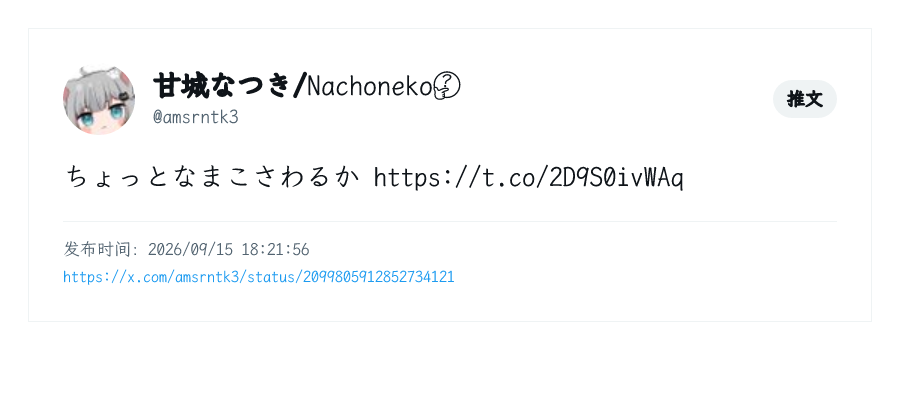
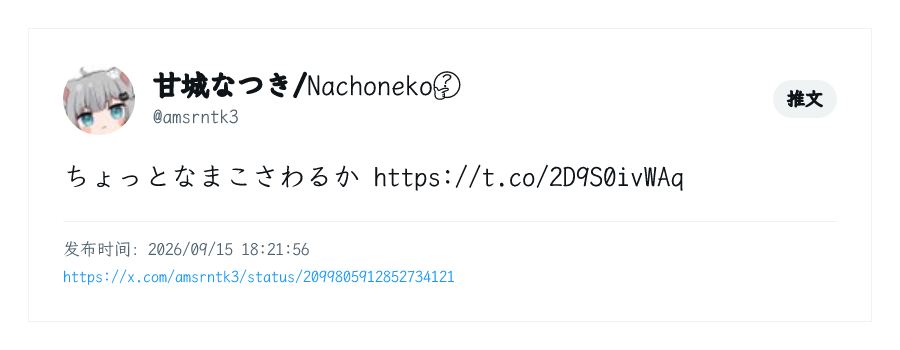
feat: prepare 0.4.0-beta.7 with help alias and refined cards
Add xhelp alias, lighten card typography, and reorganize command documentation with previews. Bump version to 0.4.0-beta.7+20260916 and update changelog.

diff --git a/src/render/takumi.ts b/src/render/takumi.ts
@@ -232,11 +232,11 @@ function recentActivityCard(
         container({
           style: { display: "flex", flexDirection: "column", gap: 2, flex: 1 },
           children: [
-            text(activity.fullname, { fontSize: 25, fontWeight: 600, color: palette.text }),
+            text(activity.fullname, { fontSize: 25, fontWeight: 400, color: palette.text }),
             text(`@${activity.username} · ${formatTime(activity.createdAt)}`, { fontSize: 17, color: palette.muted }),
           ],
         }),
-        text(actionLabel(activity.kind), { fontSize: 17, fontWeight: 600, color: palette.accent }),
+        text(actionLabel(activity.kind), { fontSize: 17, fontWeight: 400, color: palette.accent }),
       ],
     }),
     text(activity.text.trim() || "（无文字内容）", {
@@ -585,7 +585,7 @@ export function createTakumiRenderer(
           backgroundColor: palette.background,
         },
         children: [
-          text("X / Twitter 频道订阅", { fontSize: 32, fontWeight: 650, color: palette.text }),
+          text("X / Twitter 频道订阅", { fontSize: 32, fontWeight: 500, color: palette.text }),
           text(`共 ${watchers.length} 条订阅`, { fontSize: 17, color: palette.muted }),
           watcherTable(watchers, avatars),
         ],
@@ -619,7 +619,7 @@ export function createTakumiRenderer(
             container({
               style: { display: "flex", alignItems: "center" },
               children: [
-                text(`${user.fullname} (@${user.username}) 最近动态`, { flex: 1, fontSize: 31, fontWeight: 650, color: palette.text }),
+                text(`${user.fullname} (@${user.username}) 最近动态`, { flex: 1, fontSize: 31, fontWeight: 500, color: palette.text }),
                 text(`第 ${pageIndex + 1}/${pageCount} 页`, { fontSize: 17, color: palette.muted }),
               ],
             }),

diff --git a/src/help.ts b/src/help.ts
@@ -74,7 +74,7 @@ export function helpCommands(defaults: HelpDefaults = {}): ReadonlyArray<HelpCom
       examples: ["xre", "xre OpenAI -c 3"],
     },
     {
-      name: "x-watcher.help", emoji: "❓", syntax: "x-watcher.help", aliases: ["xhe"],
+      name: "x-watcher.help", emoji: "❓", syntax: "x-watcher.help", aliases: ["xhe", "xhelp"],
       description: "查看全部指令和用法说明", options: [],
       notes: ["总览帮助遵循当前输出模式；各指令 --help 使用 Koishi 原生文字帮助。"],
       examples: ["xhe", "xla --help"],

diff --git a/src/commands.ts b/src/commands.ts
@@ -663,6 +663,7 @@ function registerHelpCommand(
   ctx
     .command("x-watcher.help", helpDescription("x-watcher.help"))
     .alias("xhe")
+    .alias("xhelp")
     .action(async ({ session }) => {
       if (session === undefined) return;
       const output = messageOutput(dependencies);

diff --git a/readme.md b/readme.md
@@ -84,46 +84,44 @@ Rettiwt Cookie API Key 获取方法：
 
 ## 🧰 命令
 
-```text
-xwatch [-m] [--quote] [--retweet] <username> [regexp]
+| 指令 | 别名 | 功能 | 选项与默认值 | 示例 |
+| --- | --- | --- | --- | --- |
+| 📡 `x-watcher.watch <username> [regexp]` | `xwatch`、`xwa` | 订阅或完整更新当前会话的用户动态；可用正则过滤正文 | `-m` 包含媒体；`--quote` 包含引用推文；`--retweet` 包含转推，三项默认均关闭 | `xwa -m --quote --retweet OpenAI`；`xwatch OpenAI GPT\|model` |
+| 🔕 `x-watcher.unwatch <username>` | `xun`、`xunwatch` | 取消当前会话的用户订阅 | 默认软取消、保留记录；`--hard` 永久删除，需回复 `y` 确认 | `xun OpenAI`；`xun --hard OpenAI` |
+| 📋 `x-watcher.list` | `xlist`、`xls` | 查看当前会话订阅及规则，包含已取消记录 | 无专用选项 | `xls` |
+| 🆕 `x-watcher.latest [username]` | `xlatest`、`xla` | 即时查询最新一条原创推文或回复 | `-t, --type <type>`：`post`＝原创推文（默认）、`reply`＝回复；省略账号使用 `latestDefaultUsername`，初始值 `amsrntk3` | `xla`；`xla OpenAI -t reply` |
+| 🕒 `x-watcher.recent [username]` | `xrecent`、`xre` | 合并查询最近原创推文和回复，不含引用或转推 | `-c, --count <count>`：每类 `1`～`50` 条，默认取 `recentDefaultCount`（初始值 `5`）；省略账号使用 `recentDefaultUsername`（初始值 `OpenAI`）；没有 `--type` 选项 | `xre`；`xre OpenAI -c 20` |
+| ❓ `x-watcher.help` | `xhe`、`xhelp` | 查看全部指令、别名、选项、当前默认值及示例 | 各指令也可加 `--help` 查看原生文字帮助 | `xhe`；`xla --help` |
 
-xun [--hard] <username>
+> **参数格式**：`<参数>` 必填，`[参数]` 可选。用户名可带 `@`，支持 1～15 个英文字母、数字或下划线，不接受主页 URL。`regexp` 为 JavaScript 正则表达式源码，仅匹配当前动态正文；省略时不过滤。
 
-xunwatch [--hard] <username>
+### 📡 订阅与取消
 
-xlist
+> **会话范围**：订阅按频道或私聊隔离，频道中的任何成员都可以管理当前频道订阅。默认订阅原创和回复；自动推送的这两类动态可通过 `activityTypes` 配置调整，引用和转推由订阅选项控制。
 
-xhe
+> **媒体开关**：`-m` 允许卡片展示媒体，并在附件模式下另发图片；纯文本模式不发图片。GIF 独立附件使用首帧，视频通过原文链接查看。`--quote` 表示包含引用推文，与 `enableQuote` 引用指令消息不同。
 
-xlatest [username] [-t post|reply]
+> **完整覆盖**：再次执行 `xwatch` 会替换整条规则：省略正则清空过滤，省略 `-m`、`--quote`、`--retweet` 关闭对应功能。非法正则在命令阶段拒绝；数据库中意外存在的非法规则按 fail-closed 处理，不投递匹配结果。
 
-xrecent [username] [-c count]
-```
+> **起始进度**：新订阅和重新启用均从当前最新动态开始，不补发历史；更新活跃订阅保留水位。默认软取消保留记录，`xlist` 仍会显示；恢复订阅时重新设置起始位置。
 
-简写别名：`xwa` → `xwatch`、`xun` → `xunwatch`、`xls` → `xlist`、`xhe` → `x-watcher.help`、`xla` → `xlatest`、`xre` → `xrecent`。
+> **永久删除**：`xun --hard <username>` 可删除当前频道或私聊中活跃、已取消的订阅。发起人须在同一会话 30 秒内回复 `y` 确认、`n` 取消，不区分大小写并忽略首尾空白；其他回复或超时也取消。下一条回复由确认流程接收，不作为其他命令执行。
 
-- 默认订阅原创和回复。
-- `--quote` 开启引用推文。
-- `--retweet` 开启转推。
-- `-m` 附带图片和 GIF；视频继续只提供原文链接。
-- 用户名可写成 `username` 或 `@username`。
-- 正则只匹配当前动态正文。
-- 订阅按频道或私聊隔离，频道中的任何成员都可以管理当前频道订阅。
-- `xhe` 展示全部公开指令、别名、选项含义、可选值、当前配置默认值和用法示例；它和 xlist 使用所选模式的卡片、文字部分，不附加推文媒体。
-- 每个指令的 `--help` 保留 Koishi 原生文字帮助，与 `xhe` 共用用法说明；`--type` 仅用于 `xlatest`，支持 `post`、`reply`。
-- 文字帮助、查询结果和操作反馈增加 Emoji 标识；`xrecent` 在每条序号前用 📝 区分推文、💬 区分回复。Takumi 卡片不添加这些装饰，原始正文不变。
-- 再次订阅会完整覆盖规则：省略正则会清空过滤，省略 `-m`、`--quote`、`--retweet` 会关闭对应功能。新建或重新启用不补发历史，活跃订阅更新保留水位；取消订阅保留记录，`xlist` 仍会显示。
-- `xlatest` 只即时读取并发送指定用户最近的推文或回复，不创建订阅、也不推进订阅水位；用户名省略时查询 `latestDefaultUsername`，`-t` 省略时默认 `post`。
-- `xrecent` 合并获取指定用户最近的原创推文和回复，不包含引用或转推，也不改变任何订阅。用户名省略时查询 `recentDefaultUsername`。
-- `xrecent -c 10` 表示最多获取 `10` 条推文和 `10` 条回复，而不是总共 `10` 条；命令参数和配置均限制为 `1`～`50` 的整数。
-- `xrecent` 图片输出使用 Takumi WASM，每页最多展示 `10` 条动态；多页图片和文字会按“引用、分页图片、文字”的顺序放在同一条消息中。图片附件直接展示，视频和 GIF 展示封面，媒体不可用时显示占位块。
-- FFmpeg 是必需的 Koishi 服务：启用 `koishi-plugin-ffmpeg` 或 `koishi-plugin-ffmpeg-path` 任一种服务提供插件即可，后者可配置本地路径或自动下载。服务缺失时 x-watcher 等待服务就绪。
-- GIF 和视频在供应商封面不可用时，通过 FFmpeg 提取首帧；抽帧失败显示原因占位。
-- 每张 Takumi 图片和独立图片附件默认限制为 5 MiB（5 × 1024 × 1024 字节）。未超限保留原格式；超限通过 FFmpeg 转成 JPEG，先降低质量再缩小尺寸，最多尝试 8 次。卡片失败回退文字，附件失败跳过并提示；不发送超限图片。该限制不是整条多图消息的总大小上限。
+> **删除结果**：硬取消后记录不再出现在 `xlist`，重新订阅会创建新记录。等待确认期间记录已变化则需重新操作；远端 Stream 同步失败不撤销本地删除，会提示等待重试。其他频道的订阅不受影响。
 
-消息模式使用 `outputMode` 单选配置，旧 `outputFormats` 不再读取；升级后请重新选择偏好，未配置时默认 `card-text`。
+### 🔎 即时查询与帮助
 
-`takumiMediaCrop` 已由布尔开关改为三档单选，不兼容旧 `true` / `false`；已有配置需重新选择或删除该字段以使用默认 `mild`。`mild` 向图片框比例靠拢，居中裁剪且至少保留原图面积的 85%，必要时不铺满；`aggressive` 不限制裁剪量。裁剪仅影响卡片内配图（包括媒体封面），不改变独立图片附件。
+> **仅当前会话**：`xla`、`xre` 只回复触发指令的当前频道或私聊，遵守 `enableQuote`，不向所有订阅频道广播，不创建订阅或改变水位。后台订阅推送独立运行。
+
+> **查询数量**：`xrecent -c 10` 表示最多获取 10 条推文和 10 条回复，而非总共 10 条；参数和配置均限制为 `1`～`50` 的整数。`xlatest --type` 只接受 `post`、`reply`，不支持引用或转推。
+
+> **帮助形式**：`xhe` 与各指令 `--help` 共用用法说明。`xhe` 和 `xlist` 使用所选输出模式的卡片、文字部分，不附加推文媒体；`--help` 始终保留 Koishi 原生文字帮助。
+
+> **文字标识**：文字帮助、查询结果和操作反馈带 Emoji；`xrecent` 每条序号前以 📝 区分推文、💬 区分回复。Takumi 卡片不添加这些装饰，原始正文不变。
+
+### 🖼 消息模式与媒体
+
+> **模式选择**：`outputMode` 为单选配置，旧 `outputFormats` 不再读取；升级后请重新选择偏好，未配置时默认 `card-text`。
 
 | 值 | 模式 |
 | --- | --- |
@@ -133,36 +131,23 @@ xrecent [username] [-c count]
 | `card-text` | Takumi 图片卡片＋文本（默认） |
 | `card-text-media` | Takumi 图片卡片＋文本＋独立图片附件 |
 
-- 输出顺序为卡片、文字、附件；文字使用普通换行，外部内容转义后发送。xre 的附件标注所属动态序号。
-- 卡片内媒体与独立附件是两种展示方式。自动推送仍遵守订阅的 `-m` 开关；没有启用媒体时，卡片也不包含推文媒体。
-- 卡片配图默认在 666×333 px 上限内轻微居中裁剪，最多损失 15% 面积，等比缩小、不放大小图。单张居中；多图按所选列数从左到右、从上到下排列，间距 14 px，末行不足时靠左，保持原列宽。图片在各自列内水平居中、顶部对齐，每行高度随内容收缩。
-- 开启裁剪时，以有效列宽和最大高度形成统一图片框，居中裁剪而不拉伸。以上设置适用于 xla、xre、自动推送卡片内的图片及 GIF/视频封面，不改变文字、头像、整张卡片宽度或独立附件尺寸。加载或尺寸读取失败时显示最多 96 px 高的占位。
-- 独立附件由插件按代理配置下载，再以 Base64 图片发送，不把原图 URL 交给 NapCat。所有数据源均适用，关闭代理时直连；每次输出最多并发 3 个附件任务，下载超时 15 秒，最多跟随 3 次重定向，同次附件下载按 URL 复用。
-- GIF 附件转为首帧静态图片；视频不作为独立附件发送，请通过原文链接查看。单个附件失败不会阻止其他内容发送。
-- xla / xre 只回复触发指令的当前频道或私聊，遵守 `enableQuote`，不向订阅频道广播，不改变订阅及水位。后台订阅推送独立运行。
+> **输出顺序**：卡片、文字、附件按顺序发送；文字使用普通换行，外部内容转义后发送。`xre` 的附件标注所属动态序号。卡片内媒体与独立附件分别控制，自动推送仍遵守订阅的 `-m` 开关；未启用媒体时，卡片也不包含推文媒体。
 
-再次执行 `xwatch` 是完整覆盖，不是局部合并：省略正则会清空旧规则，省略 `-m`、`--quote` 或 `--retweet` 会关闭对应能力。非法正则会在命令阶段拒绝；数据库中意外存在的非法规则按 fail-closed 处理。
+> **最近动态分页**：`xrecent` 使用 Takumi WASM，每张卡片最多 10 条动态；引用、分页卡片、文字及所选附件放在同一条消息中。卡片内图片直接展示，GIF 和视频展示封面，媒体不可用时显示原因占位。
 
-新订阅和重新启用的订阅都会先把处理进度设为当前最新动态，因此不会补发订阅前的历史动态。`xun` 和 `xunwatch` 默认软取消，保留记录；重新启用时会重新设置起始位置。
+> **配图布局**：默认在 666×333 px 上限内轻微居中裁剪，最多损失 15% 面积，等比缩小、不放大小图。单张居中；多图按所选列数从左到右、从上到下排列，间距 14 px，末行不足时靠左、保持原列宽。图片在各自列内水平居中、顶部对齐，每行高度随内容收缩。
 
-使用 `xun --hard <username>` 可永久删除当前频道或私聊中的活跃、已取消订阅。机器人会请求二次确认：发起人在同一会话 30 秒内回复 `y` 确认、`n` 取消（不区分大小写，忽略首尾空白）；其他回复或超时也取消。下一条回复会被确认流程接收，不作为其他命令执行。删除后记录不再出现在 `xlist`，重新订阅会创建新记录。等待期间记录已变化则需要重新操作；远端 Stream 同步失败不撤销本地删除，会提示等待重试。其他频道的订阅不受影响。
+> **裁剪模式**：`takumiMediaCrop` 为 `none`（完全不裁剪）、`mild`（轻微裁剪，默认）、`aggressive`（激进裁剪）三档单选，不兼容旧 `true` / `false`；旧配置需重新选择或删除该字段。`mild` 向有效列宽和最大高度形成的图片框比例靠拢，至少保留原图面积的 85%，必要时不铺满；`aggressive` 居中填满、不限制裁剪量并允许放大。裁剪不拉伸图片。
 
-示例：
+> **布局范围**：配图尺寸、布局与裁剪适用于 `xla`、`xre`、自动推送卡片内的图片及 GIF/视频封面，不改变文字、头像、整张卡片宽度或独立附件尺寸。加载或尺寸读取失败时显示最多 96 px 高的占位。
 
-```text
-xwatch OpenAI
-xwatch -m --quote OpenAI GPT|model
-xwatch --quote --retweet @OpenAI release
-xun OpenAI
-xun --hard OpenAI
-xlist
-xhe
-xlatest thsottiaux
-xlatest thsottiaux -t reply
-xrecent
-xrecent OpenAI
-xrecent OpenAI -c 20
-```
+> **FFmpeg 服务**：必须启用 `koishi-plugin-ffmpeg` 或 `koishi-plugin-ffmpeg-path`，后者支持配置本地路径或自动下载；缺少服务时插件等待就绪。GIF 和视频缺少供应商封面时，通过 FFmpeg 提取首帧，失败则显示原因占位。
+
+> **图片体积**：每张 Takumi 图片和独立图片附件默认最多 5 MiB（5 × 1024 × 1024 字节），由 `takumiImageMaxSizeMiB` 控制。未超限保留原格式；超限使用 FFmpeg 转 JPEG，先降质量再缩尺寸，最多尝试 8 次。卡片失败回退文字，附件失败跳过并提示，不发送超限图片；上限按单张计算，不是整条消息的总大小。
+
+> **附件下载**：所有数据源的独立附件均由插件按代理配置下载，再以 Base64 图片发送，不把原图 URL 交给 NapCat；关闭代理时直连。每次输出最多并发 3 个附件任务，下载超时 15 秒，最多跟随 3 次重定向，同次下载按 URL 复用。
+
+> **附件类型**：GIF 转首帧静态图片；视频不作为独立附件发送，请通过原文链接查看。单个附件失败不会阻止其他内容发送。
 
 ## 📬 投递与一致性
 
@@ -172,3 +157,23 @@ xrecent OpenAI -c 20
 - 发送成功但处理进度写入失败时，后续恢复可能产生至少一次重复投递；插件不使用持久化 outbox。
 - WebSocket 投递失败会主动断线，至少等待 90 秒后重连并通过 REST 补漏。
 - 时间固定显示为上海时区，消息包含分类标题、正文和原文链接。
+
+## 🖼 指令效果预览
+
+> 以下为各指令的图片示例；实际输出随配置、动态内容和插件版本变化。
+
+### 📋 xlist / xls：订阅列表
+
+![xlist 当前频道订阅列表预览](docs/images/preview/xlist.png)
+
+### 🆕 xlatest / xla：最新动态
+
+![xlatest 最新动态卡片预览](docs/images/preview/xlatest.png)
+
+### 🕒 xrecent / xre：最近动态
+
+![xrecent 最近推文与回复预览](docs/images/preview/xrecent.png)
+
+### ❓ xhelp / xhe：指令帮助
+
+![xhelp 指令帮助卡片预览](docs/images/preview/xhelp.png)

diff --git a/changelog.md b/changelog.md
@@ -9,12 +9,18 @@
 - 整理截至 **2026-09-16**：fork 主分支为 `1db5a54`，上游主分支为 `66076a8`，共同祖先为 `2ab9d3f`。
 - 日期采用 Git 作者日期；版本采用对应提交中的包版本，不代表已在 npm 发布。部分版本的构建日期后缀与提交日期不同，保留原值。
 - 当前 Git 历史没有版本标签。没有独立版本提交的中间开发状态不单独编造版本条目，例如 `0.3.1-beta.4+20260916` 未出现在这两条分支的包版本快照中。
-- 上游分叉后的 3 个提交单独列出，**没有直接合并或 cherry-pick**；硬取消功能已在本地未发布修改中手工适配，详见下节。
+- 上游分叉后的 3 个提交单独列出，**没有直接合并或 cherry-pick**；硬取消功能已手工适配并纳入 `0.4.0-beta.7+20260916`，详见下节。
 - 历史版本的默认值、依赖和配置可能已被后续版本替换；当前使用方式以 [README](./readme.md) 为准。
 
 ## 🚀 本仓库独立更新
 
-### 🛠 未发布 — 独立订阅管理页面与带二次确认的硬取消
+### ✨ 0.4.0-beta.7+20260916 — 2026-09-16
+
+- 新增帮助指令别名 `xhelp`，与 `xhe` 共用同一帮助入口和文案。
+- 调细 `xlist`、`xrecent` 卡片标题，以及最近动态卡片中的用户名和动态类型标签。
+- README 命令说明改为表格，补充说明按引用段落整理；文末直接展示订阅列表、最新动态、最近动态和帮助四张预览图。
+
+#### 🖥 独立订阅管理页面与带二次确认的硬取消
 
 - 修复同一 X 账号跨频道订阅的头像不一致：页面按稳定用户 ID 共享非空缓存；头像地址变化或手动刷新时重新加载失败图片，不增加轮询 API 请求。
 
